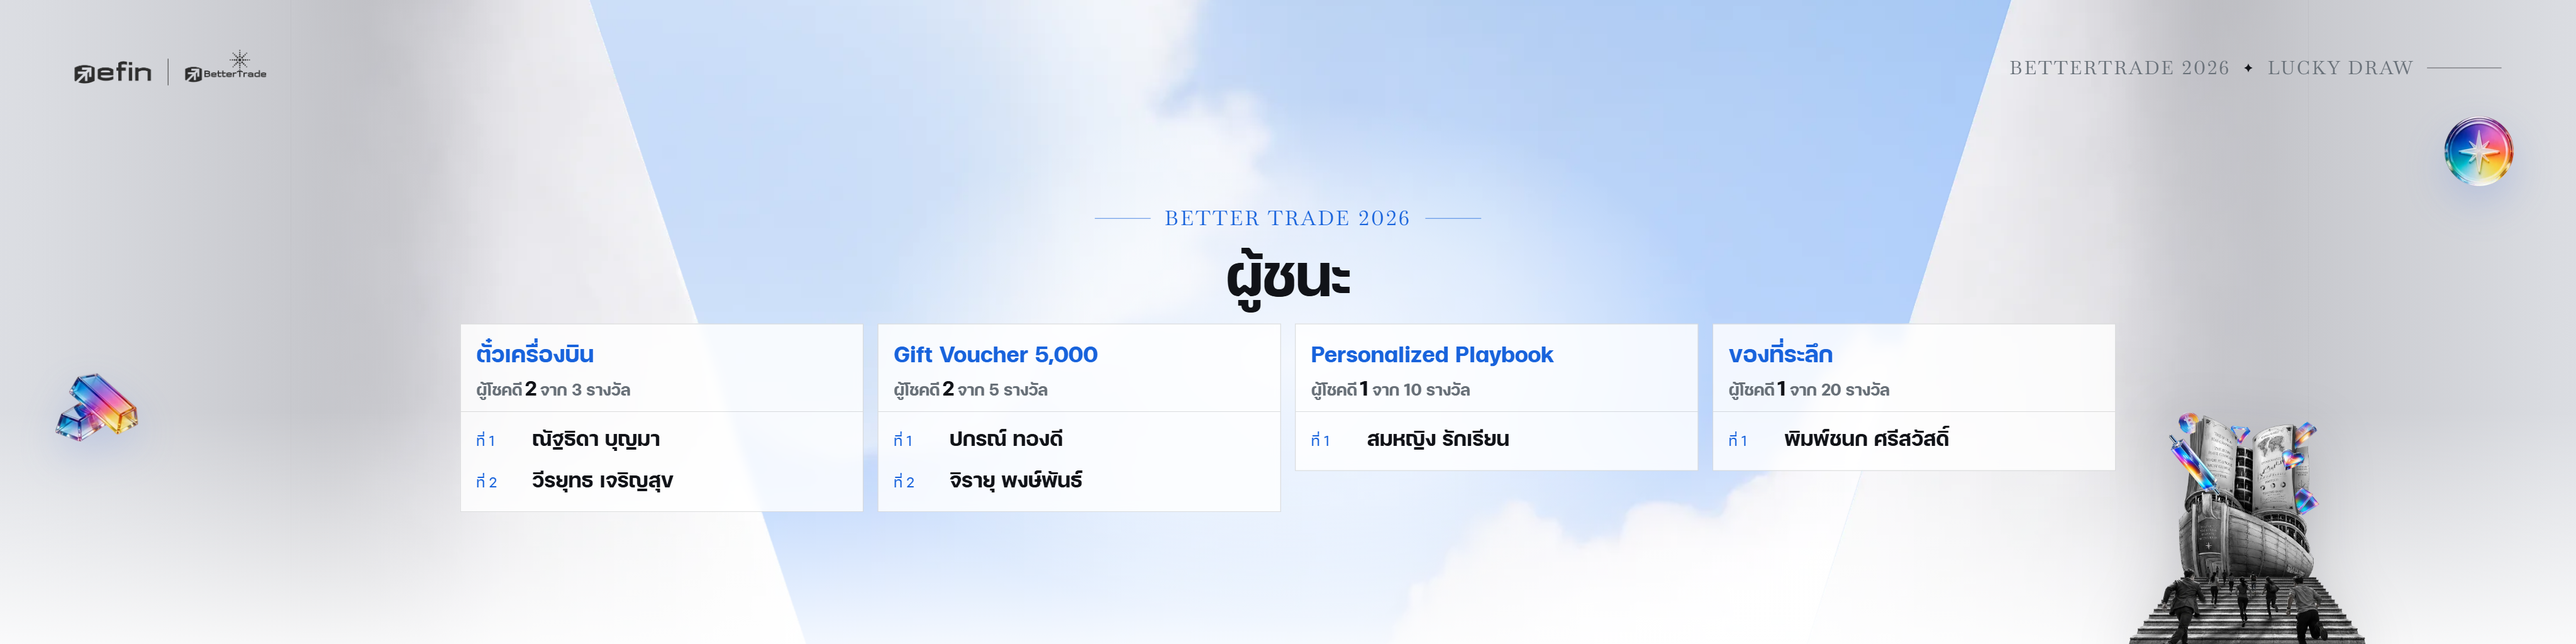
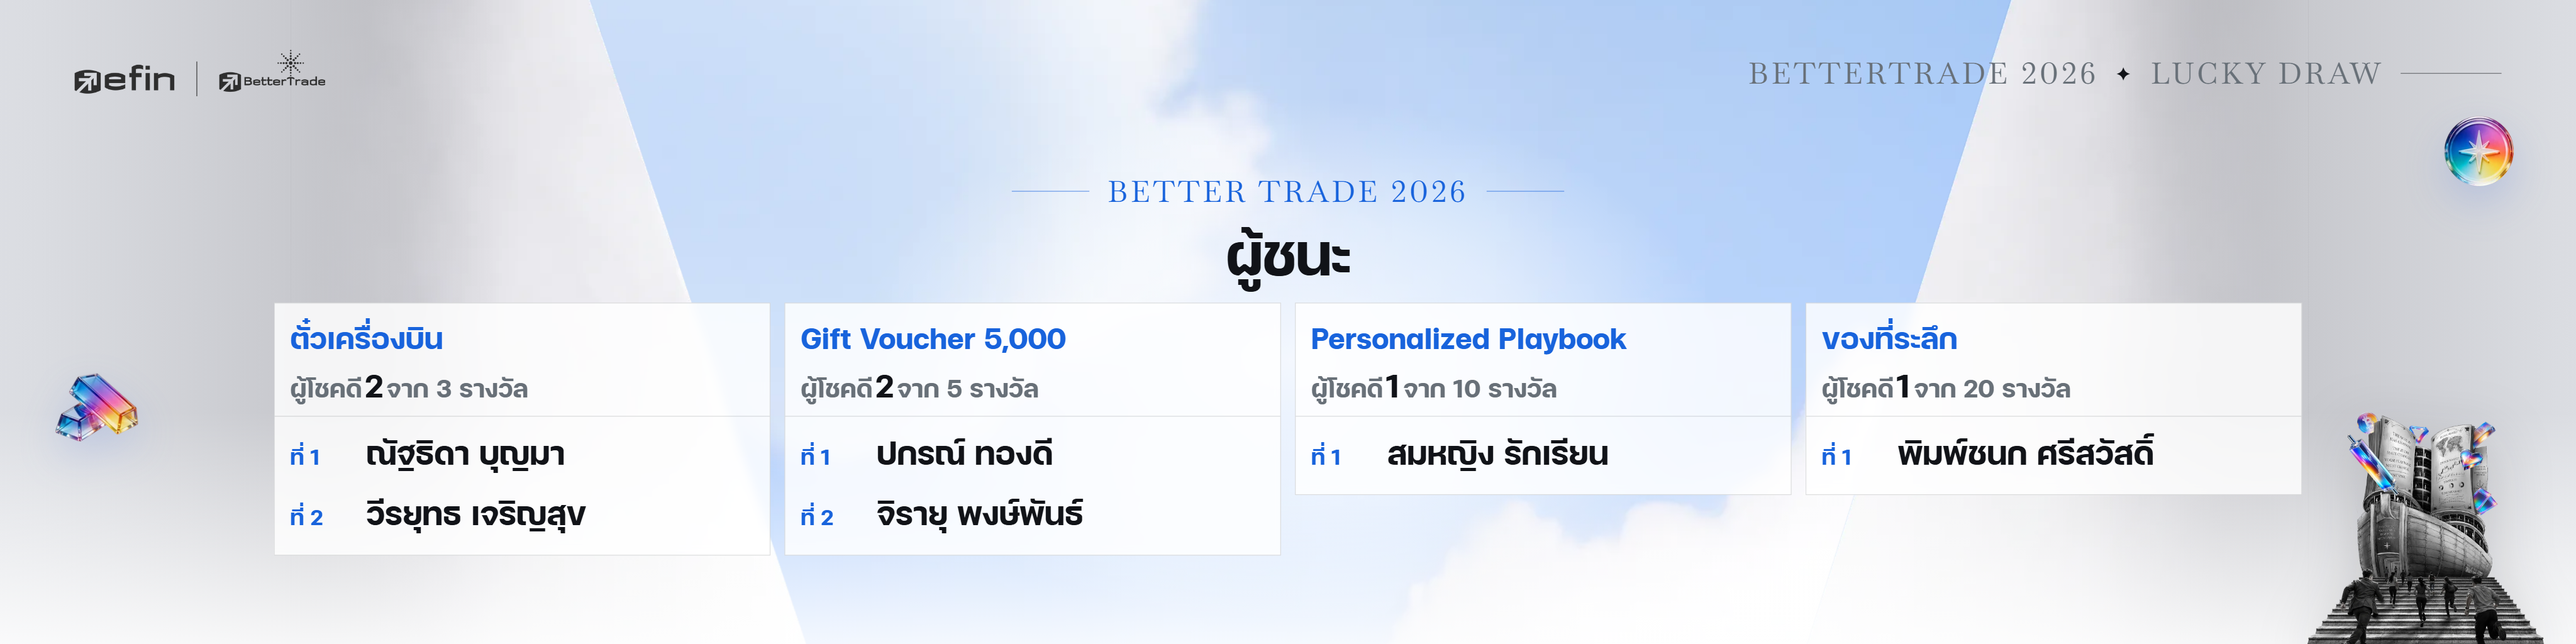
Main Stage type audit: scale text for viewers up to ~30 m
- Four levels on Main Stage only: chrome 38, labels and data 44-52, secondary lines 64,
  board names 56-60; headings, names and the countdown keep their sizes
- Small text at weight 600; header logos 60px; wider board tiles (640px) and reveal column (1500px)
- Ship and coin moved outside the wider board; wall gift moved below the larger corner label
- Mini Stage unchanged; regenerate Main Stage previews

diff --git a/show-screen.html b/show-screen.html
@@ -52,15 +52,15 @@
   .wing-el.b{left:-640px;bottom:240px;width:130px;animation-delay:-4.5s}
   .wing-el.c{left:2440px;top:140px;width:110px;animation-delay:-1s}
   .wing-el.n1{left:340px;top:120px;width:120px;animation-delay:-3s}
-  .wing-el.n2{left:1825px;top:360px;width:110px;animation-delay:-5.5s}   /* between the name's right edge (~1560) and the ship (~2044), a little nearer the ship */
+  .wing-el.n2{left:1940px;top:360px;width:110px;animation-delay:-5.5s}   /* between the name's right edge (~1560) and the ship (~2274), a little nearer the ship */
   /* the logo row follows the edges of the whole 4:1 screen (same 96px margin as Mini Stage), not the 1920 core */
   body.screen-main .top{left:-604px;right:-604px}
   body.screen-main .wall.l{left:-325px}
   body.screen-main .wall.r{left:1559px}
   body.screen-main .el.candle{left:-200px;top:200px}   /* bar centred between the far gold bars (~-510) and the name's left edge (~360) */
   body.screen-main .el.chest{left:77px;bottom:70px}   /* centred between the bar chart (~-75) and the near diamond (~400) */
-  body.screen-main .el.gift{right:auto;left:1560px;top:60px;width:170px}
-  body.screen-main .ship{right:-430px;height:300px}   /* just outside the 4-column board so it never has to shrink */
+  body.screen-main .el.gift{right:auto;left:1560px;top:150px;width:170px}   /* below the corner label, which is larger on Main Stage */
+  body.screen-main .ship{right:-660px;height:300px}   /* just outside the 4 x 640 board so it never has to shrink */
   body.screen-main .el.efin{right:auto;bottom:auto;left:1680px;top:640px;width:120px}
   /* the 4-column board fills the sky, so the mid and near pieces step aside there (far pieces and the ship stay) */
   .el,.wing-el{transition:opacity .6s}
@@ -139,7 +139,6 @@
   .reel-in{position:absolute;left:0;right:0;top:0;will-change:transform}
   .reel-in div{position:absolute;left:0;right:0;height:120px;line-height:120px;font-size:100px;font-weight:700;white-space:nowrap;color:var(--ink);text-align:center;will-change:transform,opacity}
   body.screen-main .reel{height:360px;margin-top:14px;width:1000px}
-  body.screen-main .who{width:1200px}   /* long names shrink a little sooner, keeping clear of the near pieces */
   /* Main Stage is only 830 tall: drawing A and the prize scene get a little more compact / less lifted */
   body.screen-main .drawing .deck{width:170px;margin:18px 0 8px}
   body.screen-main .dv-A .count{font-size:200px;min-height:200px}
@@ -221,6 +220,43 @@
   .demo-bar button:hover{background:rgba(255,255,255,.12)}
   .demo-bar button[aria-pressed="true"]{background:#fff;color:var(--ink)}
   .demo-bar .sep{width:1px;height:20px;background:rgba(255,255,255,.25);margin:0 4px}
+
+  /* ---- Main Stage type scale (16 x 4 m at 256 px/m, canvas scale 1.23: 1 design px is about 0.48 cm of letter height).
+     Sized for viewers up to ~30 m: no text below 38 (about 18 cm), secondary lines 64 (about 31 cm),
+     small text at weight 600 so it does not thin out on LED. Headings and names keep their sizes. ---- */
+  /* level 4, chrome: corner label, small kickers, group ordinals */
+  body.screen-main .top img{height:60px}
+  body.screen-main .eyebrow{font-size:38px;gap:22px}
+  body.screen-main .eyebrow i{font-size:24px}
+  body.screen-main .eyebrow::after{width:130px}
+  body.screen-main .k{font-size:38px;gap:24px}
+  body.screen-main .k::before,body.screen-main .k::after{width:100px}
+  body.screen-main .lucky i{font-size:30px}
+  body.screen-main .group li i{font-size:38px;width:84px;font-weight:600}
+  /* level 3, labels and data */
+  body.screen-main .lucky{font-size:52px}
+  body.screen-main .rule small{font-size:44px;font-weight:600}
+  body.screen-main .rule span{font-size:76px}
+  body.screen-main .rule .num{font-size:100px}
+  body.screen-main .tile small{font-size:44px;font-weight:600}
+  body.screen-main .group header b{font-size:52px}
+  body.screen-main .group header small{font-size:44px}
+  body.screen-main .group header small em{font-size:56px}
+  /* level 2, secondary lines */
+  body.screen-main .idle p,body.screen-main .drawing .sub,body.screen-main .who .meta,body.screen-main .board .empty,body.screen-main .redraw p{font-size:64px;font-weight:700}
+  body.screen-main .prize .qty{font-size:64px}
+  body.screen-main .prize .qty b{font-size:140px}
+  /* board names: bigger, so the tiles get wider (4 x 640 + gaps = 2614, inside the 3320 canvas) */
+  body.screen-main .tile{width:640px}
+  body.screen-main .tile img{width:72px}
+  body.screen-main .tile b{font-size:56px}
+  body.screen-main .tile .rank{font-size:72px;width:104px}
+  body.screen-main .grid.ranked .tile b{font-size:60px}
+  body.screen-main .grid,body.screen-main .groups{width:2614px}
+  body.screen-main .group{max-width:none}
+  body.screen-main .group li b{font-size:56px}
+  /* reveal: a wider name column so long names shrink less */
+  body.screen-main .who{width:1500px}
 
   /* ?still: every scene in its settled state, no motion (gallery thumbnails and PNG export) */
   body.still *,body.still *::before,body.still *::after{animation:none!important;transition:none!important}
@@ -510,7 +546,8 @@ function fitBoard(){
   const scene = grid.closest(".scene");
   // free band: below the logo row, down to the ship's top (only where the board is over the ship) or the screen's bottom margin
   const bandBottom = overShip ? stage.clientHeight - ship.offsetHeight - 24 : stage.clientHeight - 24;
-  scene.style.padding = `118px 0 ${stage.clientHeight - bandBottom}px`;
+  const head = document.querySelector(".top");
+  scene.style.padding = `${head.offsetTop + head.offsetHeight + 8}px 0 ${stage.clientHeight - bandBottom}px`;
   const top = grid.offsetTop, h = grid.offsetHeight;
   const limit = bandBottom - 6;
   if(top + h > limit) grid.style.transform = `scale(${Math.max(.5, (limit - top) / h).toFixed(3)})`;
